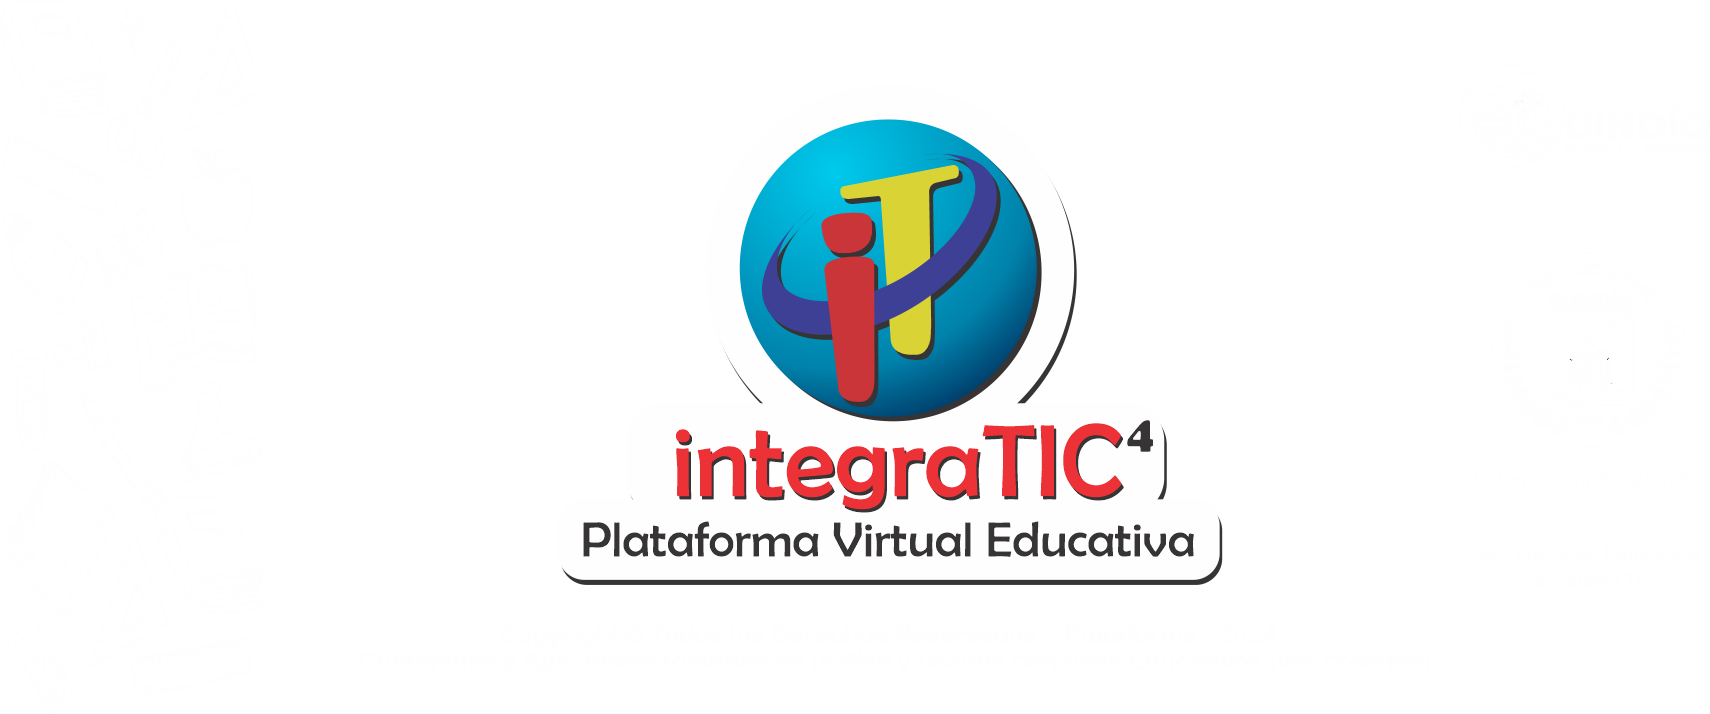
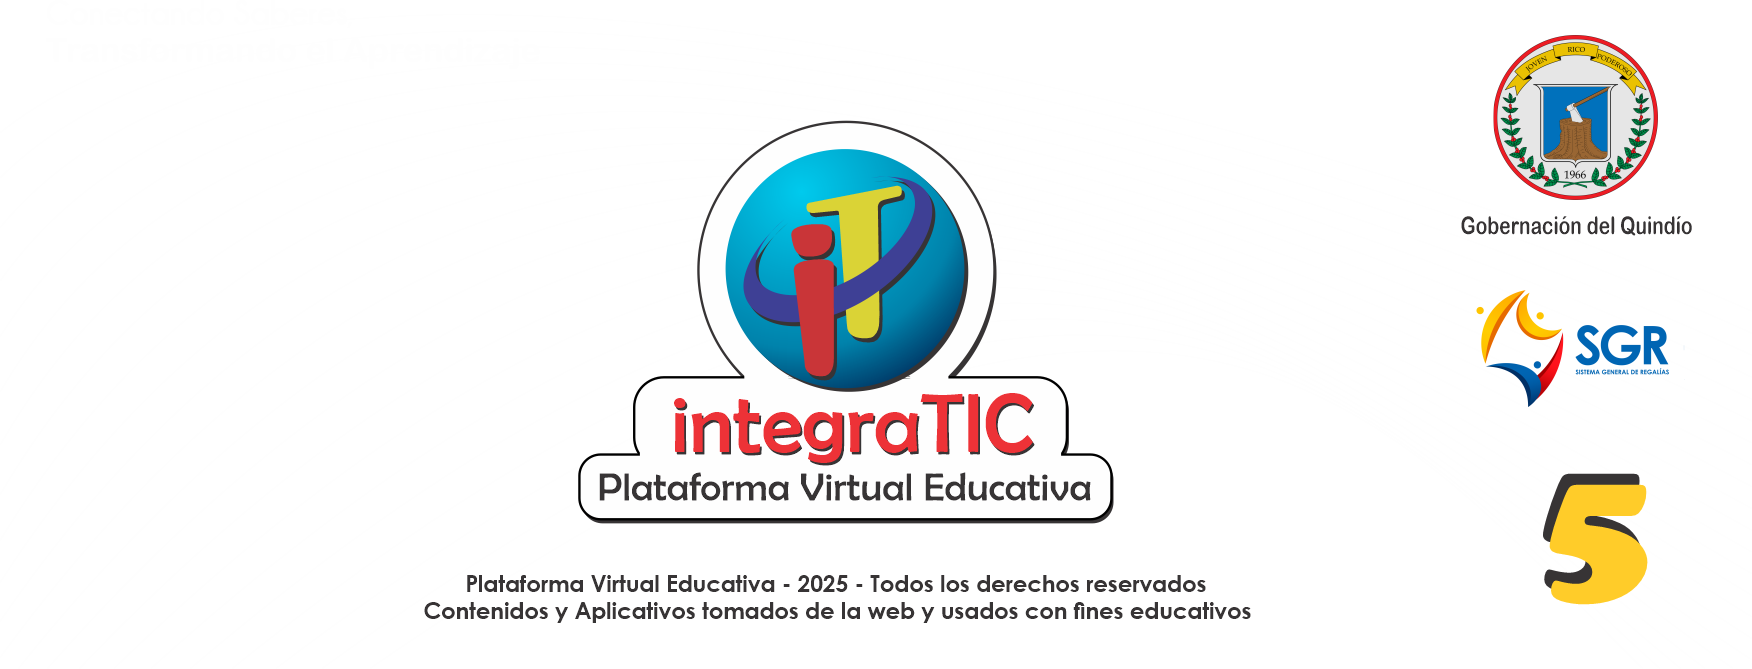
v5 Fixes

diff --git a/application/views/in_footer.php b/application/views/in_footer.php
@@ -1,5 +1,5 @@
 <footer class="footer text-right">
-    <label><?= date("Y") ?> © Plataforma Virtual Educativa - IntegraTIC v4.0&nbsp; &nbsp;</label>
+    <label><?= date("Y") ?> © Plataforma Virtual Educativa - IntegraTIC v5.0&nbsp; &nbsp;</label>
     <button type="button" class="btn btn-primary waves-effect btn-sm m-b-5" onclick="creditos();">Créditos</button>
 </footer>
 <script>
